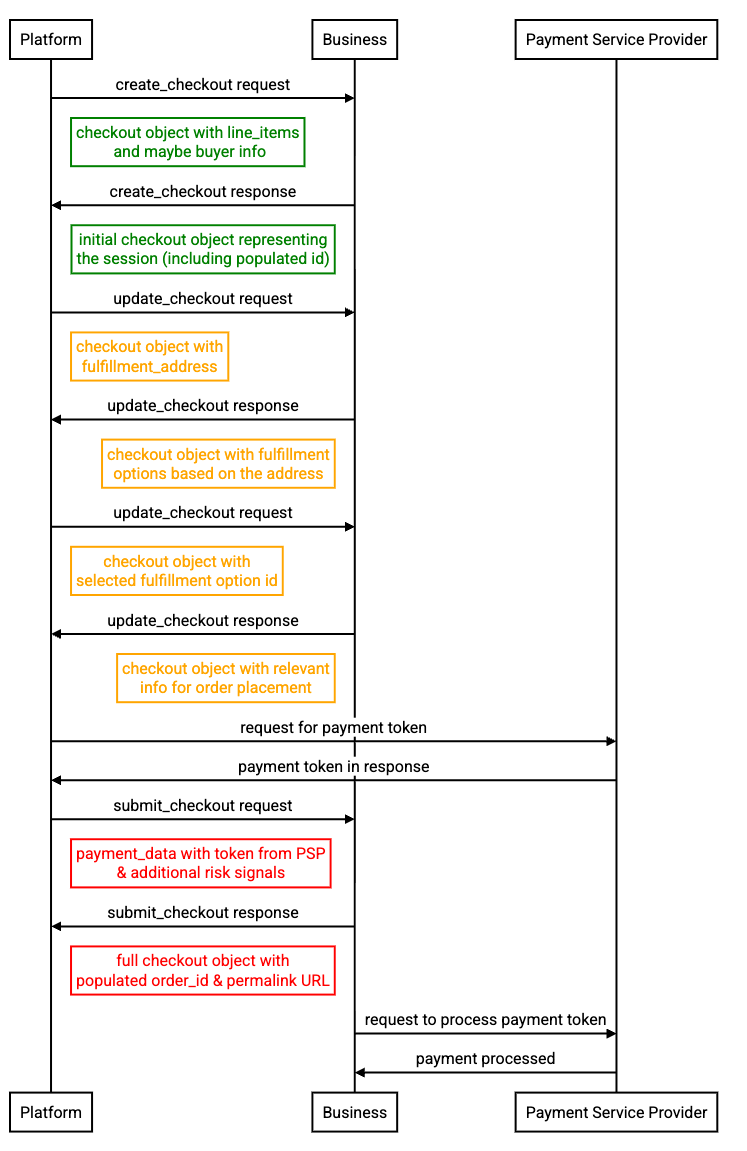
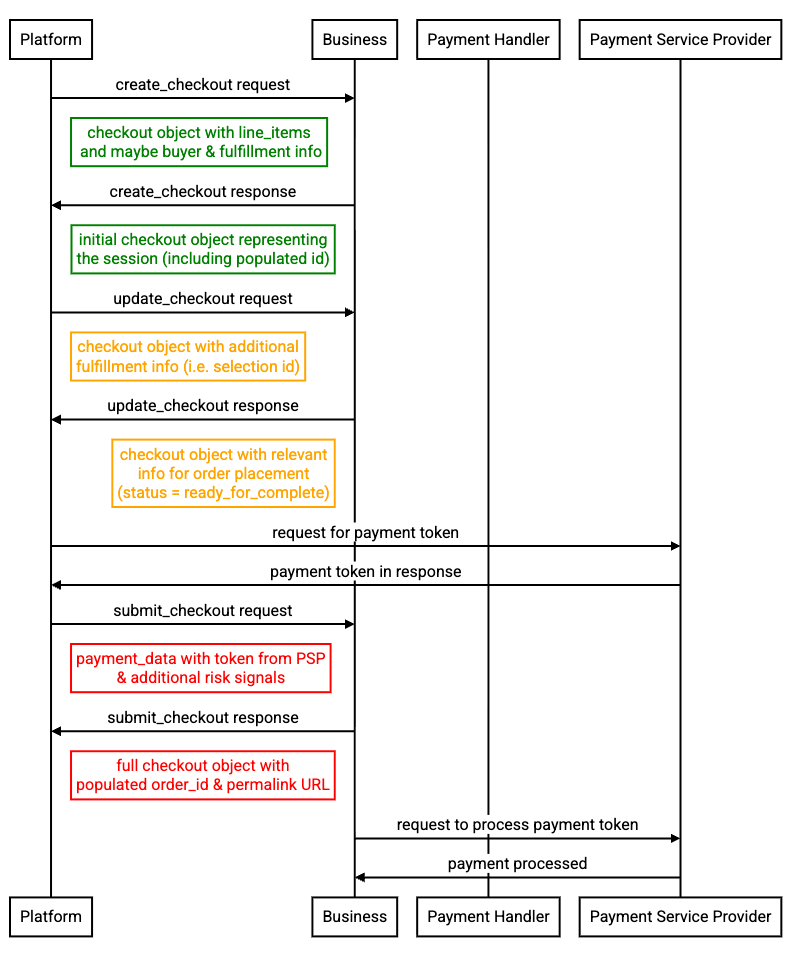
Audit content pt. 4 - checkout.md. Also replace the diagram based on the current state.
PiperOrigin-RevId: 853918718

Changed region(s): [[0.0, 0.0, 0.9853, 1.0]]

diff --git a/docs/specification/checkout.md b/docs/specification/checkout.md
@@ -21,58 +21,38 @@
 
 ## Overview
 
-Allows agents to facilitate the checkout session. The checkout has to be
+Allows platforms to facilitate checkout sessions. The checkout has to be
 finalized manually by the user through a trusted UI unless the AP2 Mandates
 extension is supported.
 
-The Merchant remains the Merchant of Record (MoR), and they don't need to become
+The business remains the Merchant of Record (MoR), and they don't need to become
 PCI DSS compliant to support this Capability.
 
 **Flow overview**
-
-1.  Build Checkout Session: The User and optionally an Agent are in a loop
-    adding items to the session.
-2.  Handoff to a trusted UI: Once the User decides to checkout the Agent (if
-    engaged) passes the control to a Trusted UI (passing the checkout session
-    data)
-3.  Manual Checkout: The User now interacts only with the Trusted UI to fill in
-    sensitive fulfillment and payment details and submit the order. The Agent is
-    not involved in this part, ensuring determinism.
-4.  Completion & Return: The Trusted UI shows a "Thank You" page to confirm the
-    order. Optionally, the User can be redirected back to the Agent, who may
-    have already been notified of the completed purchase.
 
 ![High-level checkout flow sequence diagram](site:specification/images/ucp-checkout-flow.png)
 
 **Payments**
 
-On checkout creation, merchants are required to define a payment configuration.
+On checkout creation, businesses are required to define a payment configuration.
 The Checkout object includes `payment.handlers` which define the processing
 specifications for collecting payment instruments (e.g., Google Pay, direct
-tokenization). When the buyer submits payment, the agent populates the
+tokenization). When the buyer submits payment, the platform populates the
 `payment.instruments` array with the collected instrument data.
 
 **Fulfillment**
 
-Fulfillment will be an extension in the protocol instead of a core
-construct to account for diverse use cases.
+Fulfillment is modelled as an extension in UCP to account for diverse use cases.
 
-Fulfillment is optional in the checkout object. This is done to enable an agent
-to perform checkout for digital goods without needing to furnish fulfillment
-details more relevant for physical goods.
-
-For physical goods (or digital goods needing fulfillment data) there is a flat
-structured fulfillment option that works for single item, single destination
-checkout that can be added to the checkout object as specified below.
-
-The spec will introduce more advanced fulfillment constructs as extensions
-in the future.
+Fulfillment is optional in the checkout object. This is done to enable a
+platform to perform checkout for digital goods without needing to furnish
+fulfillment details more relevant for physical goods.
 
 **Checkout Status Lifecycle**
 
 The checkout `status` field indicates the current phase of the session and
-determines what action is required next. The Merchant sets the status; the
-Platform receives messages indicating what's needed to progress.
+determines what action is required next. The business sets the status; the
+platform receives messages indicating what's needed to progress.
 
 ```
 ┌────────────┐    ┌─────────────────────┐
@@ -111,25 +91,26 @@ Platform receives messages indicating what's needed to progress.
 **Status Values**
 
 *   **`incomplete`**: Checkout session is missing required information or has
-    issues that need resolution. Agent should inspect `messages` array for
+    issues that need resolution. Platform should inspect `messages` array for
     context and should attempt to resolve via Update Checkout.
 
 *   **`requires_escalation`**: Checkout session requires information that
-    cannot be provided via API, or buyer input is required. Agent should
+    cannot be provided via API, or buyer input is required. Platform should
     inspect `messages` to understand what's needed (see Error Handling below).
     If any `recoverable` errors exist, resolve those first.
     Then hand off to buyer via `continue_url`.
 
 *   **`ready_for_complete`**: Checkout session has all necessary information
-    and agent can finalize programmatically. Agent can call Complete Checkout.
+    and platform can finalize programmatically. Platform can call
+    Complete Checkout.
 
-*   **`complete_in_progress`**: Merchant is processing the Complete Checkout
+*   **`complete_in_progress`**: Business is processing the Complete Checkout
     request.
 
 *   **`completed`**: Order placed successfully.
 
-*   **`canceled`**: Checkout session is invalid or expired. Agent should start
-    a new checkout session if needed.
+*   **`canceled`**: Checkout session is invalid or expired. Platform should
+    start a new checkout session if needed.
 
 ### Error Handling
 
@@ -137,15 +118,15 @@ The `messages` array contains errors, warnings, and informational messages
 about the checkout state. Error messages include a `severity` field that
 declares **who resolves the error**:
 
-| Severity | Meaning | Agent Action |
+| Severity | Meaning | Platform Action |
 |----------|---------|--------------|
-| `recoverable` | Agent can fix via API | Resolve using Update Checkout |
-| `requires_buyer_input` | Merchant requires input not available via API | Hand off via `continue_url` |
+| `recoverable` | Platform can fix via API | Resolve using Update Checkout |
+| `requires_buyer_input` | Business requires input not available via API | Hand off via `continue_url` |
 | `requires_buyer_review` | Buyer review and authorization is required | Hand off via `continue_url` |
 
 Errors with `requires_*` severity contribute to `status: requires_escalation`.
 Both result in buyer handoff, but represent different checkout states.
-`requires_buyer_input` means the checkout is **incomplete** — the merchant
+`requires_buyer_input` means the checkout is **incomplete** — the business
 requires information their API doesn't support collecting programmatically.
 `requires_buyer_review` means the checkout is **complete** — but policy,
 regulatory, or entitlement rules require buyer authorization before order
@@ -153,13 +134,13 @@ placement (e.g., high-value order approval, first-purchase policy).
 
 #### Error Processing Algorithm
 
-When status is `incomplete` or `requires_escalation`, agents should process
+When status is `incomplete` or `requires_escalation`, platforms should process
 errors as a prioritized stack. The example below illustrates a checkout with
 three error types: a recoverable error (invalid phone), a buyer input
 requirement (delivery scheduling), and a review requirement (high-value order).
-The latter two require handoff and serve as explicit signals to the agent.
-Merchants SHOULD surface such messages as early as possible, and agents SHOULD
-prioritize resolving recoverable errors before initiating handoff.
+The latter two require handoff and serve as explicit signals to the platform.
+Businesses **SHOULD** surface such messages as early as possible, and platforms
+**SHOULD** prioritize resolving recoverable errors before initiating handoff.
 
 ```json
 {
@@ -212,29 +193,29 @@ ELSE IF requires_buyer_review is not empty
 
 ## Continue URL
 
-The `continue_url` field enables checkout handoff from platform to merchant UI,
+The `continue_url` field enables checkout handoff from platform to business UI,
 allowing the buyer to continue and finalize the checkout session.
 
 ### Availability
 
-Merchants **MUST** provide `continue_url` when returning `status` =
+Businesses **MUST** provide `continue_url` when returning `status` =
 `requires_escalation`. For all other non-terminal statuses (`incomplete`,
-`ready_for_complete`, `complete_in_progress`), merchants
+`ready_for_complete`, `complete_in_progress`), businesses
 **SHOULD** provide `continue_url`. For terminal states (`completed`,
 `canceled`), `continue_url` **SHOULD** be omitted.
 
 ### Format
 
 The `continue_url` **MUST** be an absolute HTTPS URL and **SHOULD** preserve
-checkout state for seamless handoff. Merchants MAY implement state preservation
-using either approach:
+checkout state for seamless handoff. Businesses **MAY** implement state
+preservation using either approach:
 
 #### Server-Side State (Recommended)
 
 An opaque URL backed by server-side checkout state:
 
 ```
-https://shop.example.com/checkout-sessions/{checkout_id}
+https://business.example.com/checkout-sessions/{checkout_id}
 ```
 
 -   Server maintains checkout state tied to `checkout_id`
@@ -244,8 +225,8 @@ https://shop.example.com/checkout-sessions/{checkout_id}
 #### Checkout Permalink
 
 A stateless URL that encodes checkout state directly, allowing reconstruction
-without server-side persistence. Merchants **SHOULD** implement support for this
-format to facilitate checkout handoff and accelerated entry—for example, a
+without server-side persistence. Businesses **SHOULD** implement support for
+this format to facilitate checkout handoff and accelerated entry—for example, a
 platform can prefill checkout state when initiating a buy-now flow.
 
 > **Note:** Checkout permalinks are a REST-specific construct that extends the
@@ -258,25 +239,25 @@ platform can prefill checkout state when initiating a buy-now flow.
 
 **Platform**
 
-*   May engage an Agent to facilitate the checkout session (e.g. add items to
-    the checkout session, select fulfillment address). However, the agent must
-    hand over the checkout session to a trusted and deterministic UI for the
-    user to review the checkout details and place the order.
-*   May send the user from the trusted, deterministic UI back to the agent at
-    any time. For example, when the user decides to exit the checkout screen to
-    keep adding items to the cart.
-*   May provide agent context when the platform indicates that the request was
-    done by an agent.
+*   **MAY** engage an agent to facilitate the checkout session (e.g. add items
+    to the checkout session, select fulfillment address). However, the agent
+    must hand over the checkout session to a trusted and deterministic UI for
+    the user to review the checkout details and place the order.
+*   **MAY** send the user from the trusted, deterministic UI back to the agent
+    at any time. For example, when the user decides to exit the checkout screen
+    to keep adding items to the cart.
+*   **MAY** provide agent context when the platform indicates that the request
+    was done by an agent.
 *   **MUST** use `continue_url` when checkout status is `requires_escalation`.
-*   May use `continue_url` to hand off to merchant UI in other situations.
-*   When performing handoff, **SHOULD** prefer merchant-provided `continue_url`
+*   **MAY** use `continue_url` to hand off to business UI in other situations.
+*   When performing handoff, **SHOULD** prefer business-provided `continue_url`
     over platform-constructed checkout permalinks.
 
-**Merchant**
+**Business**
 
-*   Must send a confirmation email after the checkout has been completed.
-*   Should provide accurate error messages.
-*   The logic handling the checkout sessions must be deterministic.
+*   **MUST** send a confirmation email after the checkout has been completed.
+*   **SHOULD** provide accurate error messages.
+*   Logic handling the checkout sessions **MUST** be deterministic.
 *   **MUST** provide `continue_url` when returning `status` =
     `requires_escalation`.
 *   **MUST** include at least one message with `severity: escalation` when
@@ -286,24 +267,6 @@ platform can prefill checkout state when initiating a buy-now flow.
     immutable.
 
 ## Capability Definition
-
-The `Checkout` object has different fields depending on the operation.
-
-### Create Request Body
-
-The following fields are used when creating a checkout session.
-
-{{ schema_fields('checkout.create_req', 'checkout') }}
-
-### Update Request Body
-
-The following fields are used when updating a checkout session.
-
-{{ schema_fields('checkout.update_req', 'checkout') }}
-
-### Response Body
-
-The following fields are returned by the server in a checkout response.
 
 {{ schema_fields('checkout_resp', 'checkout') }}
 
@@ -324,37 +287,31 @@ The Checkout capability defines the following logical operations.
 To be invoked by the platform when the user has expressed purchase intent
 (e.g., click on Buy) to initiate the checkout session with the item details.
 
-Platform will use known information to construct `LineItem` (i.e. price,
-title), it's possible the values in request will be different from what the
-Merchant has. It's fine for the Merchant to return the most up-to-date values
-for the `LineItem` in the response, while also setting a MessageInfo as part
-of Message to indicate this inconsistency. Platform will always use what has
-been returned from the Merchant via the response and may choose to display an
-informational message pertaining to the price change. It is recommended that
-to minimize discrepancies and a streamlined user experience the product data
-(price/title etc.) provided by the merchant through the feeds should match
-the actual attributes.
+**Recommendation**: To minimize discrepancies and a streamlined user experience,
+product data (price/title etc.) provided by the business through the feeds
+**SHOULD** match the actual attributes returned in the response.
 
 {{ method_fields('create_checkout', 'rest.openapi.json', 'checkout') }}
 
 ### Get Checkout
 
 It provides the latest state of the checkout resource. After cancellation or
-completion it is up to the merchant on what they return (i.e this can be a long
-lived state or expire after a particular TTL (resulting in a 'not found'
-error)). From the platform there is no specific enforcement for a TTL of the
+completion it is up to the business on what to return (i.e this can be a long
+lived state or expire after a particular TTL - resulting in a 'not found'
+error). From the platform there is no specific enforcement for a TTL of the
 checkout.
-The platform will honor the TTL provided by the merchant via expires_at at the
+
+The platform will honor the TTL provided by the business via `expires_at` at the
 time of checkout session creation.
 
 {{ method_fields('get_checkout', 'rest.openapi.json', 'checkout') }}
 
 ### Update Checkout
 
-The update operation performs a full replacement of the checkout resource.
+Performs a full replacement of the checkout resource.
 The platform is required to send the entire checkout resource containing any
 data updates to write-only data fields. The resource provided in the request
-will replace the existing checkout session state on the merchant side.
+will replace the existing checkout session state on the business side.
 
 {{ method_fields('update_checkout', 'rest.openapi.json', 'checkout') }}
 
@@ -362,9 +319,9 @@ will replace the existing checkout session state on the merchant side.
 
 This is the final checkout placement call. To be invoked when the user has
 committed to pay and place an order for the chosen items. The response of this
-call is the checkout object with the placed `order_id` & `order_permalink_url`
-in it. The returned `order_id` is persisted by the platform for mirroring the
-state of the placed order. At the time of order persistence,
+call is the checkout object with `order_id` & `order_permalink_url` fields
+populated in it. The returned `order_id` is persisted by the platform for
+mirroring the state of the placed order. At the time of order persistence,
 fields from the `Checkout` will be used to construct the order representation
 (i.e. information like `line_items`, `fulfillment_options` will be used to
 create the initial order representation).
@@ -377,10 +334,10 @@ as the order, and its associated items, moves through the supply chain.
 ### Cancel Checkout
 
 This operation will be used to cancel a checkout session, if it can be canceled.
-If the checkout session cannot be canceled (e.g. if the checkout session is
-already canceled or completed), then the server should send back an error
+If the checkout session cannot be canceled (e.g. checkout session is
+already canceled or completed), then businesses **SHOULD** send back an error
 indicating the operation is not allowed. Any checkout session with a status that
-is not equal to completed or canceled should be cancelable.
+is not equal to `completed` or `canceled` should be cancelable.
 
 {{ method_fields('cancel_checkout', 'rest.openapi.json', 'checkout') }}
 
@@ -438,20 +395,20 @@ defined below:
 
 #### Well-Known Link Types
 
-Merchants SHOULD provide all relevant links for the transaction. The following
-are the recommended well-known types:
+Businesses **SHOULD** provide all relevant links for the transaction.
+The following are the recommended well-known types:
 
 | Type | Description |
 |------|-------------|
-| `privacy_policy` | Link to the merchant's privacy policy |
-| `terms_of_service` | Link to the merchant's terms of service |
-| `refund_policy` | Link to the merchant's refund policy |
-| `shipping_policy` | Link to the merchant's shipping policy |
-| `faq` | Link to the merchant's frequently asked questions |
+| `privacy_policy` | Link to the business's privacy policy |
+| `terms_of_service` | Link to the business's terms of service |
+| `refund_policy` | Link to the business's refund policy |
+| `shipping_policy` | Link to the business's shipping policy |
+| `faq` | Link to the business's frequently asked questions |
 
-Merchants MAY define custom types for domain-specific needs. Consumers SHOULD
-handle unknown types gracefully by displaying them using the `title` field or
-omitting them.
+Businesses **MAY** define custom types for domain-specific needs. Platforms
+**SHOULD** handle unknown types gracefully by displaying them using the
+`title` field or omitting them.
 
 ### Message
 
